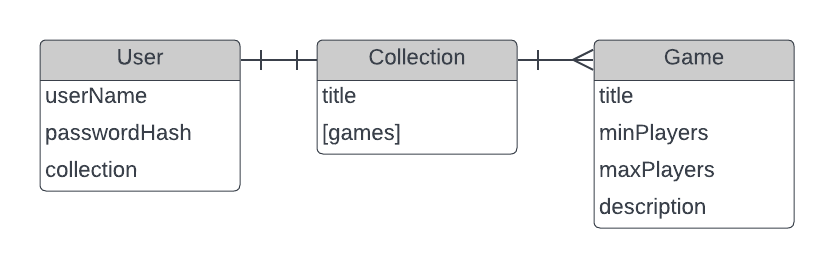
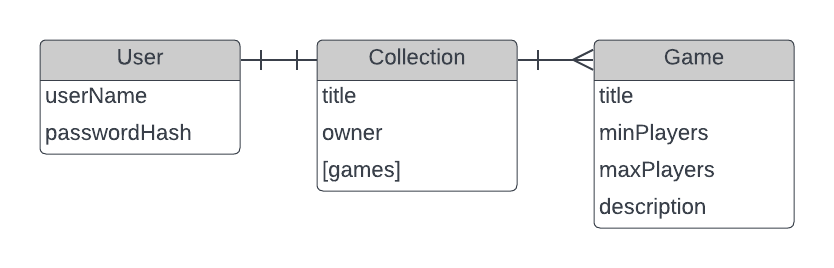
update plan for database structure

Changed region(s): [[0.3741, 0.5672, 0.6235, 0.7164], [0.0312, 0.5672, 0.3118, 0.7164], [0.3741, 0.4478, 0.4988, 0.5373]]

diff --git a/README.md b/README.md
@@ -18,20 +18,20 @@ This website allows users to quickly set up a profile and create a digital copy 
 
 - As a user I need a cancel button on create and update screens because I want to be able to back out  
 - As a user I need a confirmation prompt before deleting games because it's too easy to accidentally click one button  
-- As a user I need to be able to share a read-only link to my collection so I can show my collection to friends  
+- As a user I need to be able to create multiple collections for organization  
+- As a user I need to be able to share a read-only link to my collections so I can show my collection to friends  
 - As a user I need to be able to access read-only links without signing in so that my friends don't need an account to see my collection  
-- As a user I need to be able to search a list of pre-defined games because I don't want to define all my games myself  
 
 ## Version 3  
 
 - As a user I need to be able to customize the colors of each game  
 - As a user I need to be able to add session notes to each game  
-- As a user I need to be able to organize my games into folders  
 - As a user I need to be able to filter my game collection    
+- As a user I need to be able to search a list of pre-defined games because I don't want to define all my games myself  
 
 # Entity Relationships  
 
-In order to satisfy the requirements of the MVP user stories, the app will require three database models User, Collection, and Game. Each User has one Collection (hopefully more in later versions), and collections have an arbitrary number of references to Game documents.  
+In order to satisfy the requirements of the MVP user stories, the app will require three database models User, Collection, and Game. Each User has one Collection (until version two, where multiple collections will be implemented), and collections have an arbitrary number of references to Game documents.  
 ![MVP-entity-relationship-diagram](/readme-images/MVP-entity-relationship-diagram.png)  
 
 
@@ -43,8 +43,8 @@ The MVP will not support any un-authenticated access. When users first visit the
 Once signed in, users can see and edit their collection. The majority of the screen is filled with the collection, with some action buttons in the sidebar.  
 ![MVP collection View](/readme-images/MVP-collection-view.png)  
 
-The user can click on a game's preview to see details, edit properties, or delete it. In the MVP, the only way out of this screen is to update the game without changing any details. Adding a cancel button to this view is the first change planned for version 2.
+The user can click on a game's preview to see details, edit properties, or delete it. In the MVP, the only way out of this screen is to update the game without changing any details. Adding a cancel button to this view is the first change planned for version 2.  
 ![MVP update/delete view](/readme-images/MVP-update-delete-view.png)  
 
-The user can click the "new game" button to create a new game for their collection. After adding details, the create button in this view will create the database entry and return the user to the (updated) collection view.
+The user can click the "new game" button to create a new game for their collection. After adding details, the create button in this view will create the database entry and return the user to the (updated) collection view.  
 ![MVP create view](/readme-images/MVP-create-view.png)
